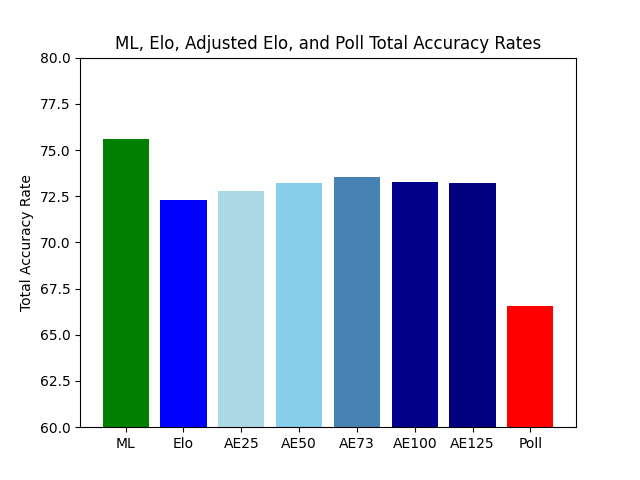
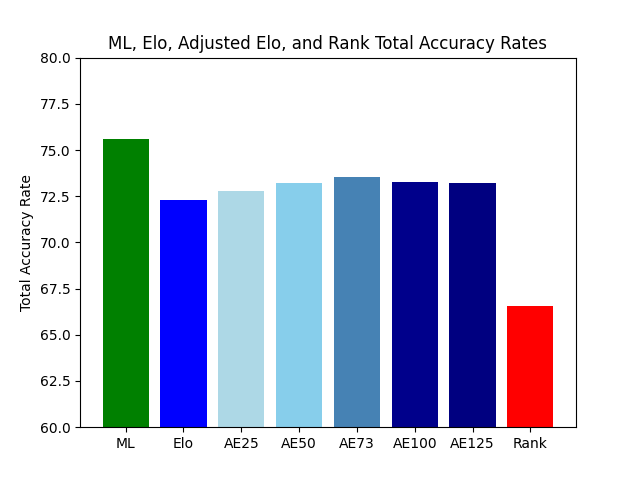
bug

Changed region(s): [[0.1562, 0.0625, 0.8438, 0.125], [0.7812, 0.9062, 0.875, 0.9375]]

diff --git a/accuracy/src/accuracy/totalAccuracyDisplay.py b/accuracy/src/accuracy/totalAccuracyDisplay.py
@@ -15,14 +15,14 @@ e100 = adjustedEloAccuracyFunction.getAccuracy(seasons, [],[],[],[],[],'','','',
 e125 = adjustedEloAccuracyFunction.getAccuracy(seasons, [],[],[],[],[],'','','','',125)[0]
 
 
-categories = ["ML","Elo", 'AE25', 'AE50', 'AE73', 'AE100', 'AE125', "Poll"]
+categories = ["ML","Elo", 'AE25', 'AE50', 'AE73', 'AE100', 'AE125', "Rank"]
 values = [m,e, e25, e50, e73, e100, e125, p]
 colors = ['green','blue', 'lightblue', 'skyblue', 'steelblue','darkblue','navy', 'red']
 
 plt.bar(categories, values, color=colors)
 
 plt.ylabel('Total Accuracy Rate')
-plt.title('ML, Elo, Adjusted Elo, and Poll Total Accuracy Rates')
+plt.title('ML, Elo, Adjusted Elo, and Rank Total Accuracy Rates')
 
 plt.ylim(60, 80)
 
